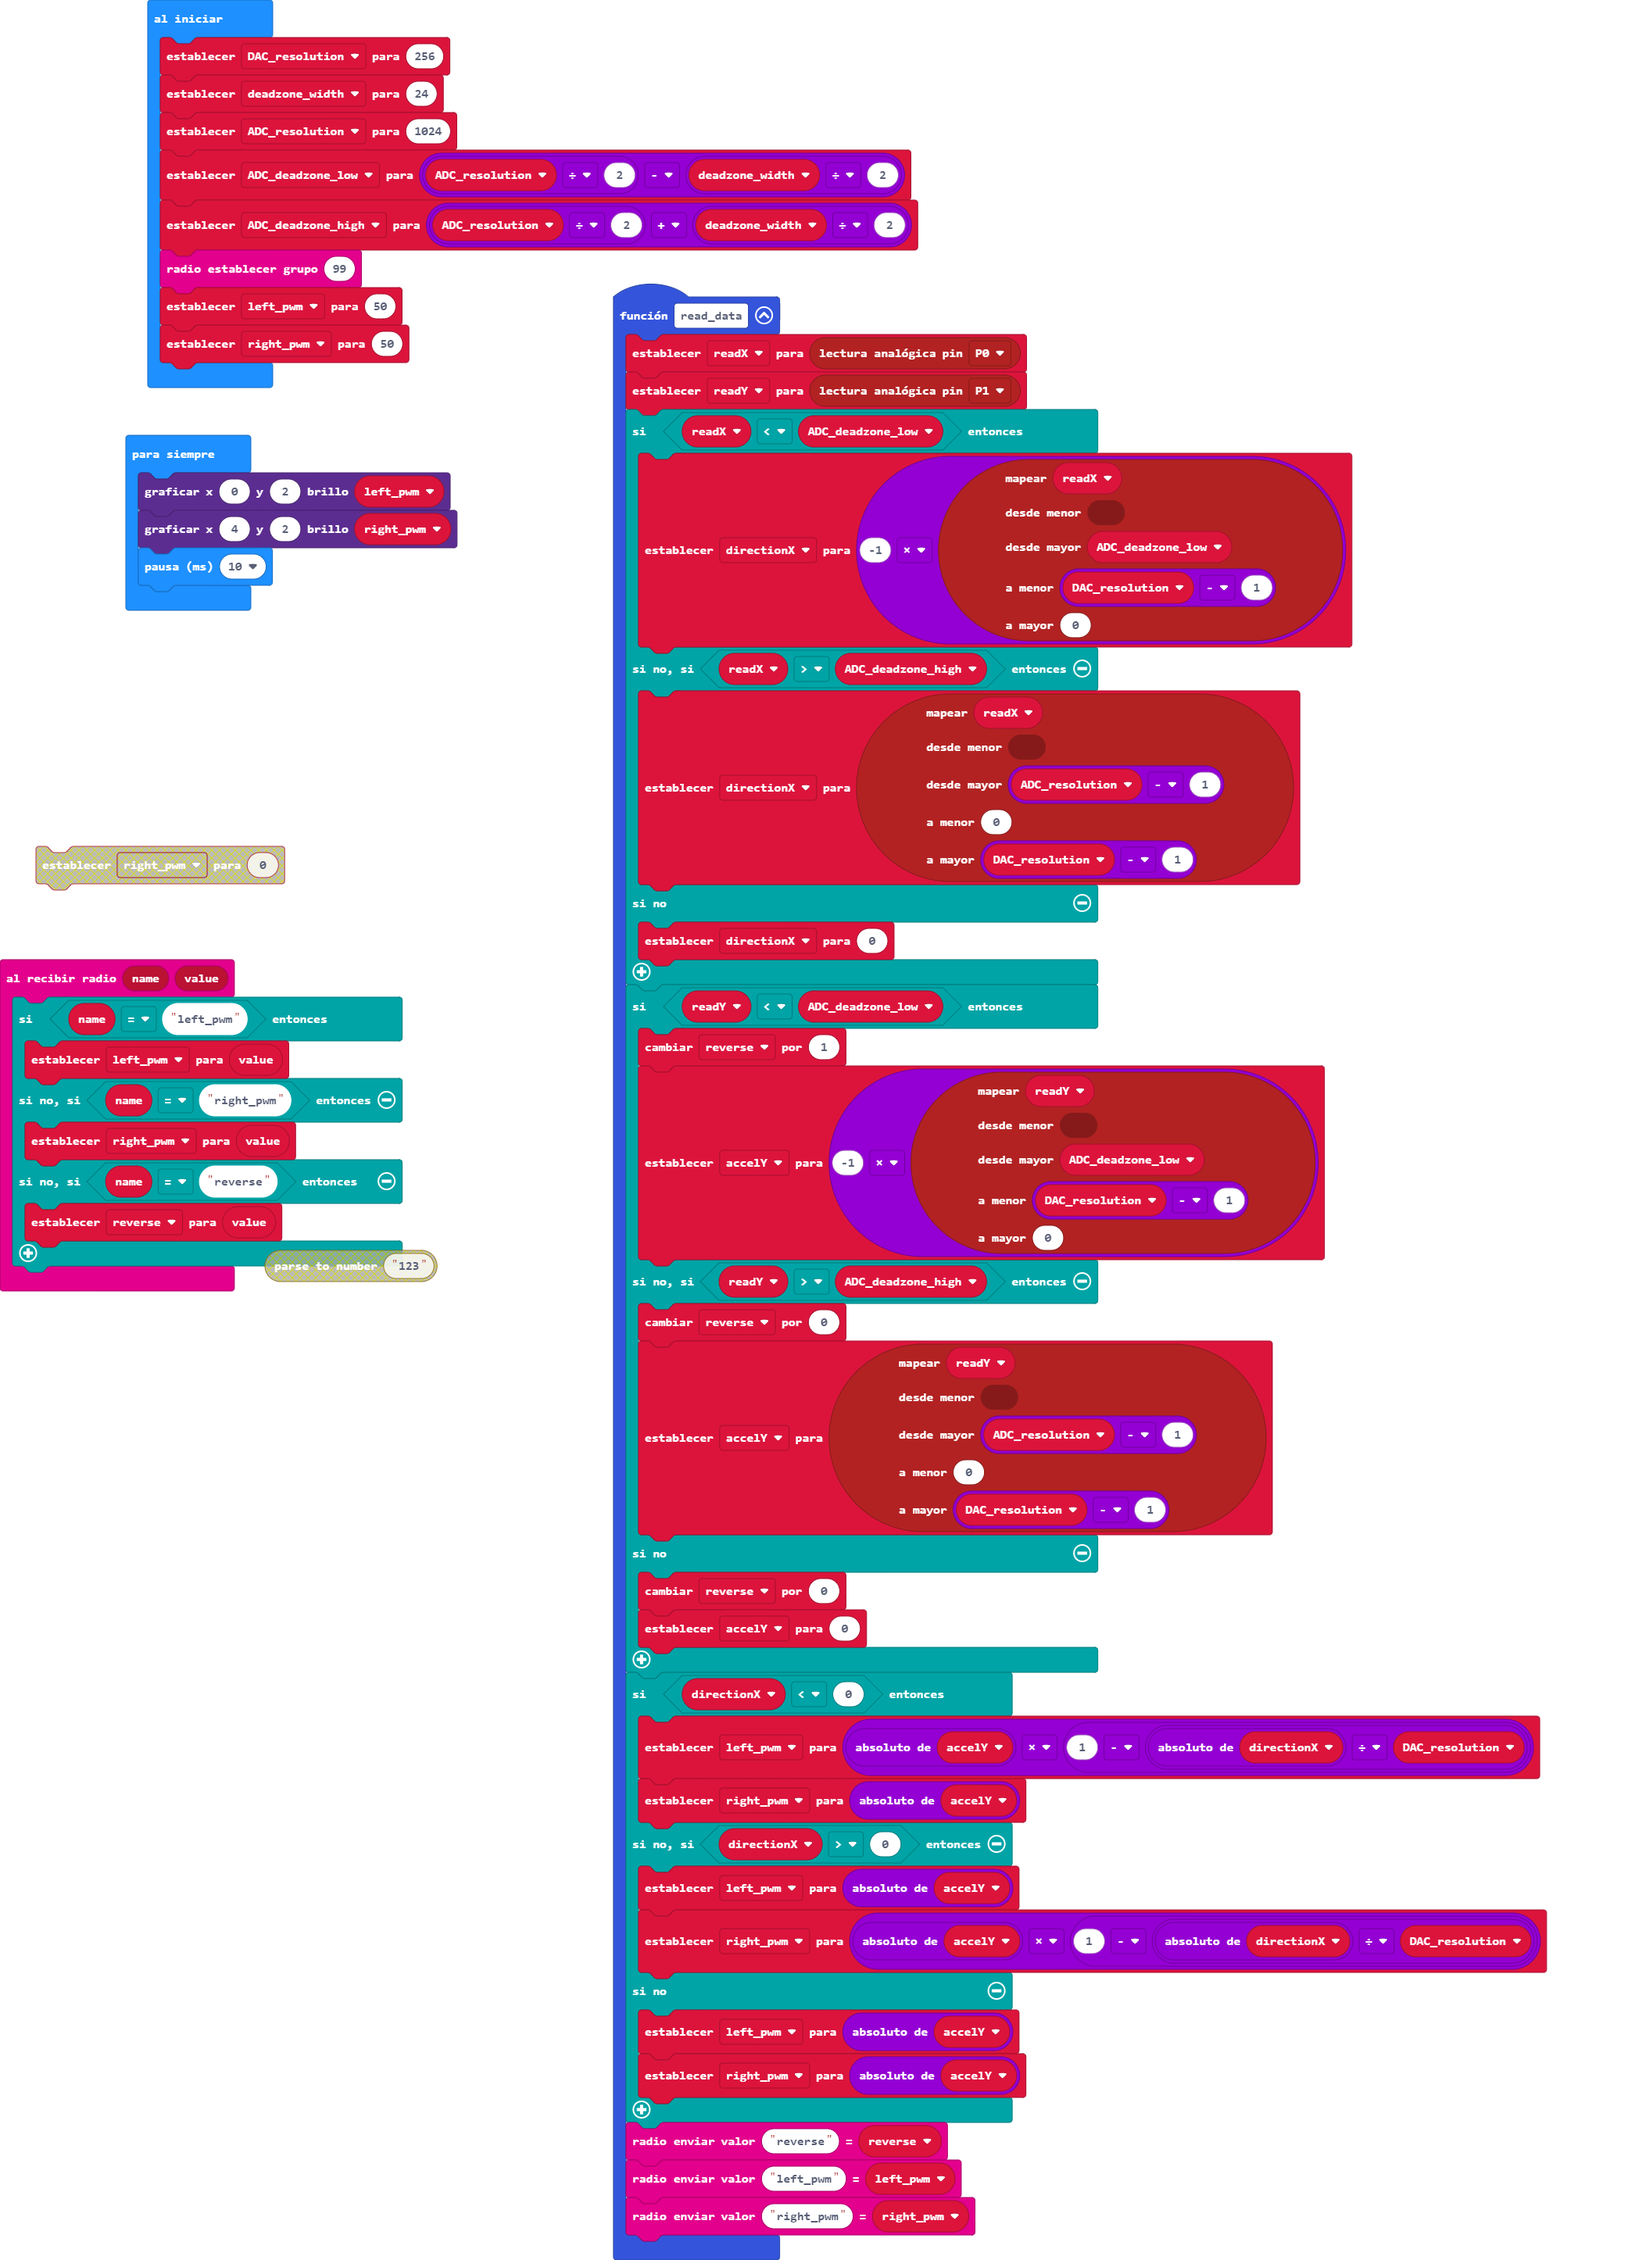
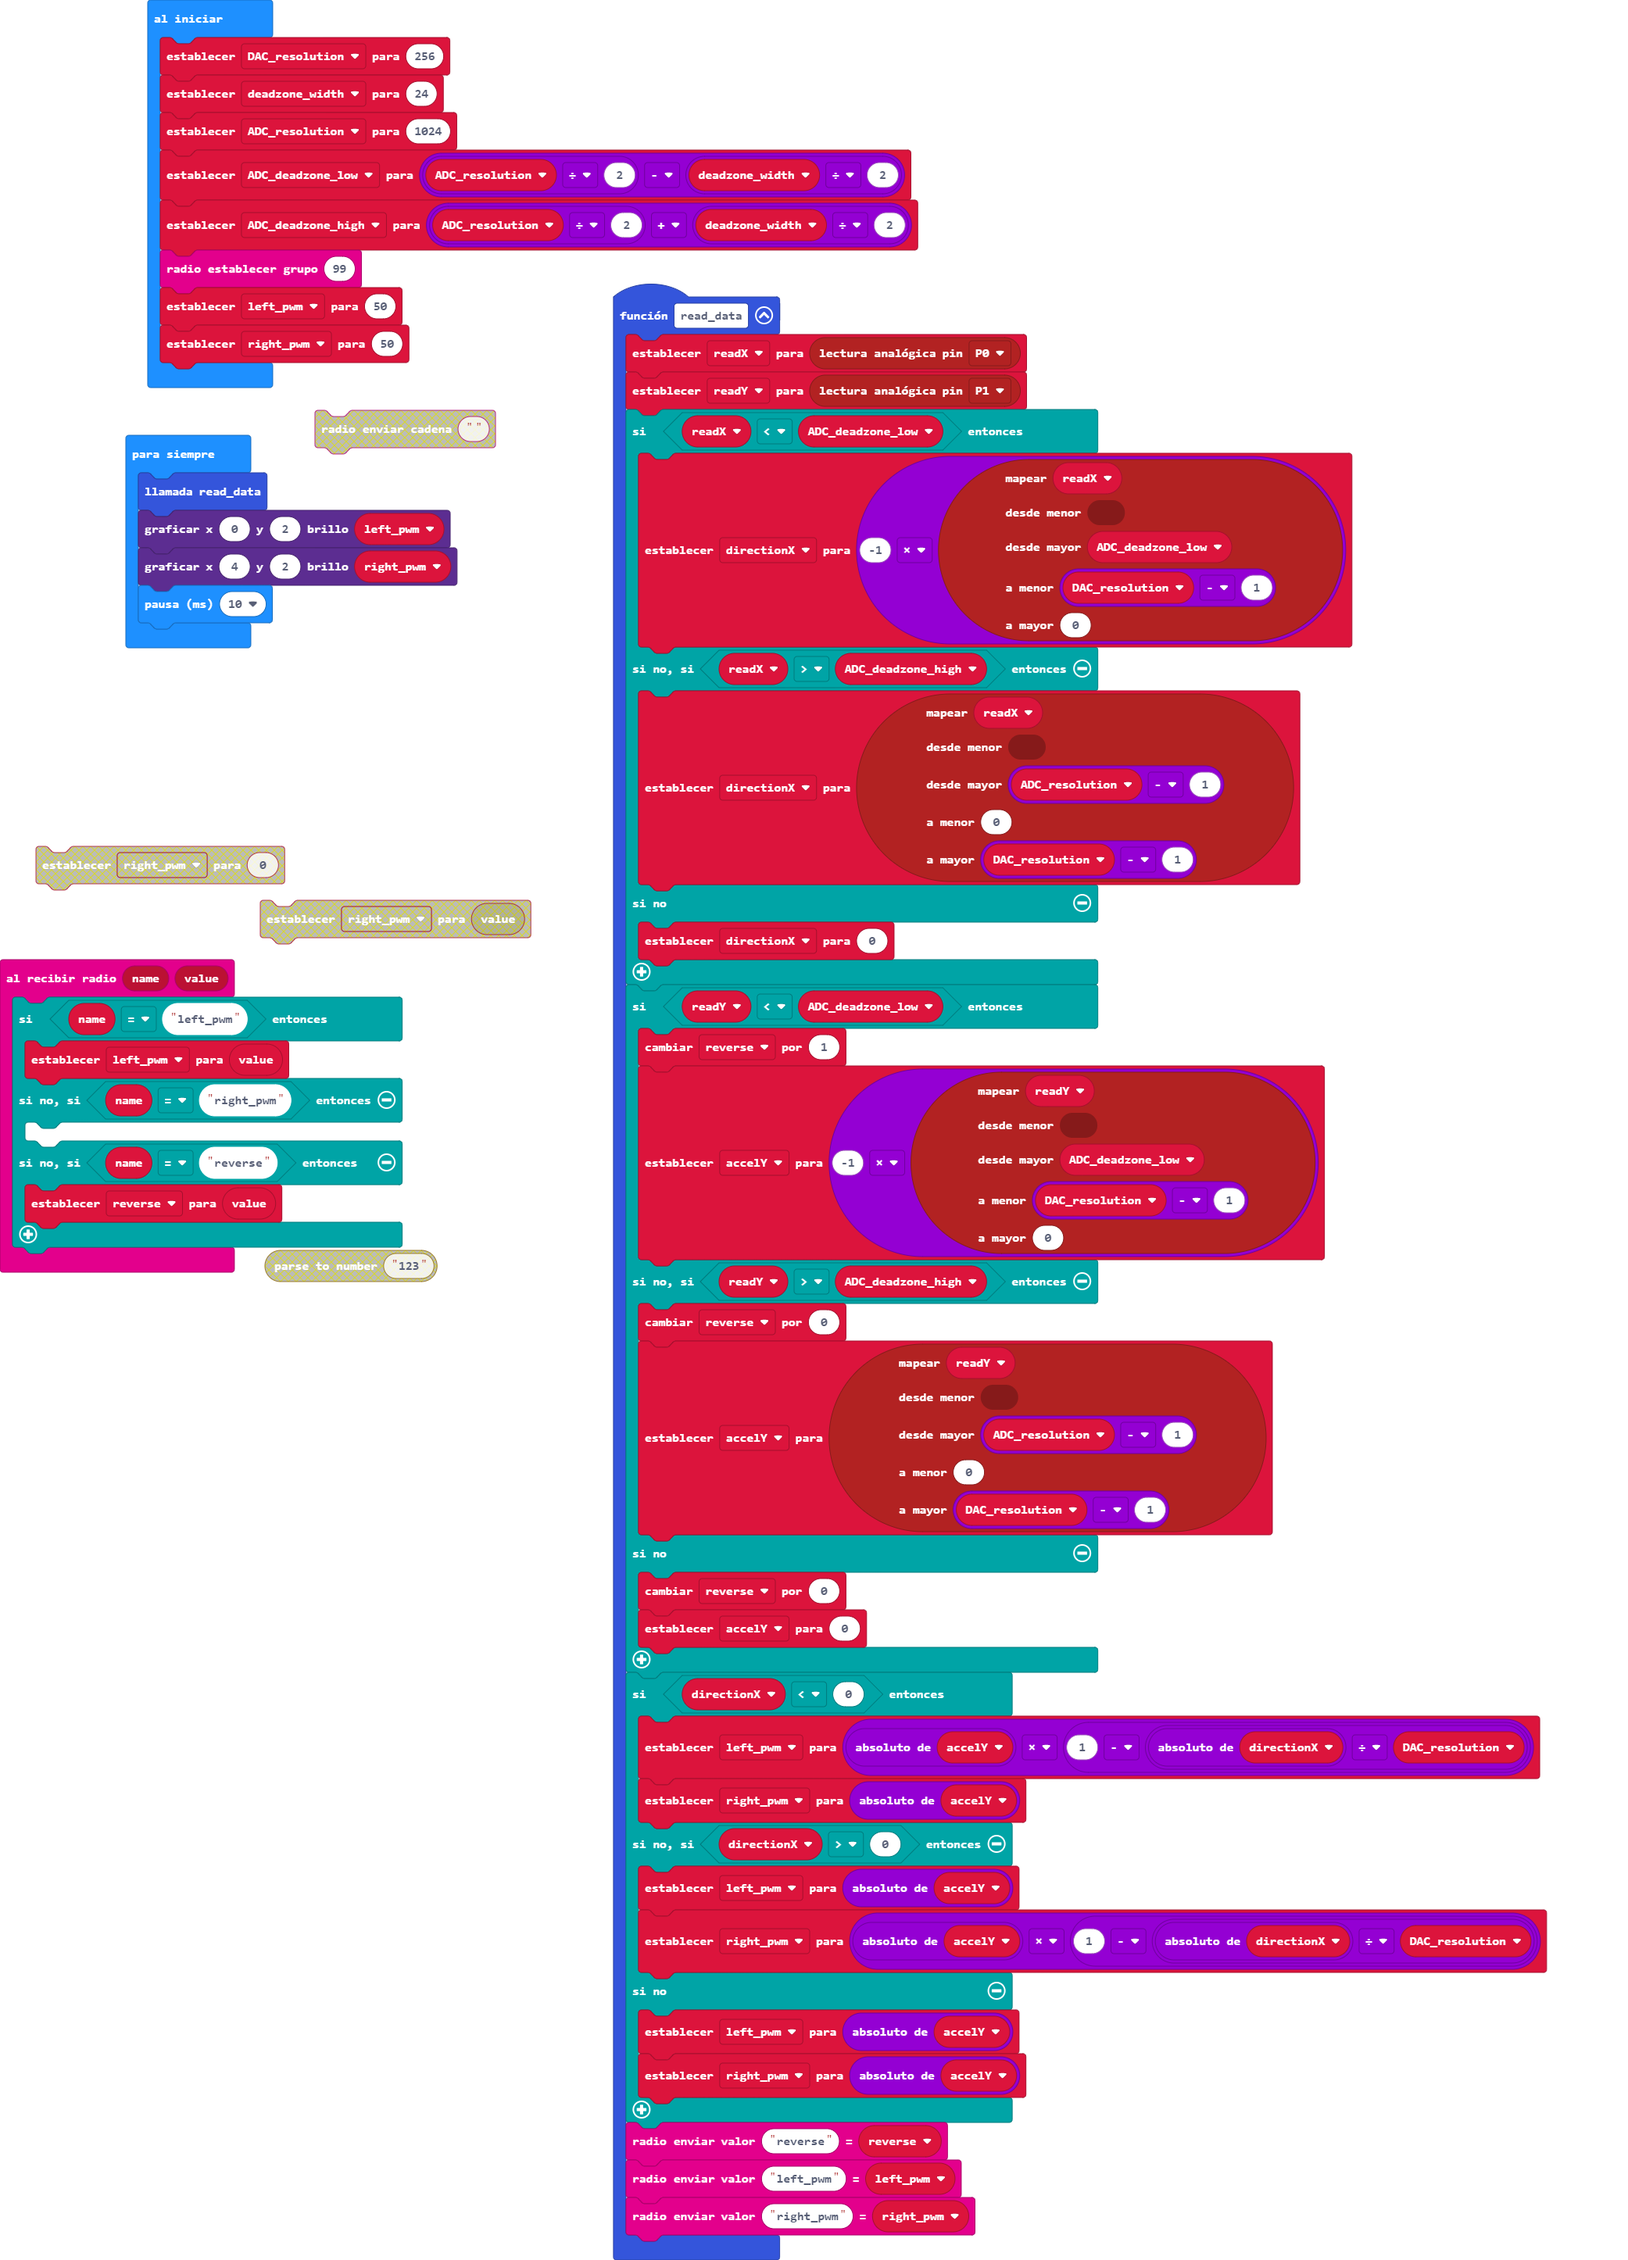
Actualizar main.blocks, main.ts

Changed region(s): [[0.0624, 0.1556, 0.312, 0.3112], [0.0, 0.4979, 0.2496, 0.5913], [0.156, 0.3734, 0.3433, 0.4357]]

diff --git a/main.ts b/main.ts
@@ -60,7 +60,7 @@ radio.onReceivedValue(function (name, value) {
     if (name == "left_pwm") {
         left_pwm = value
     } else if (name == "right_pwm") {
-        right_pwm = value
+    	
     } else if (name == "reverse") {
         reverse = value
     }
@@ -85,6 +85,7 @@ radio.setGroup(99)
 left_pwm = 50
 right_pwm = 50
 basic.forever(function () {
+    read_data()
     led.plotBrightness(0, 2, left_pwm)
     led.plotBrightness(4, 2, right_pwm)
     basic.pause(10)
